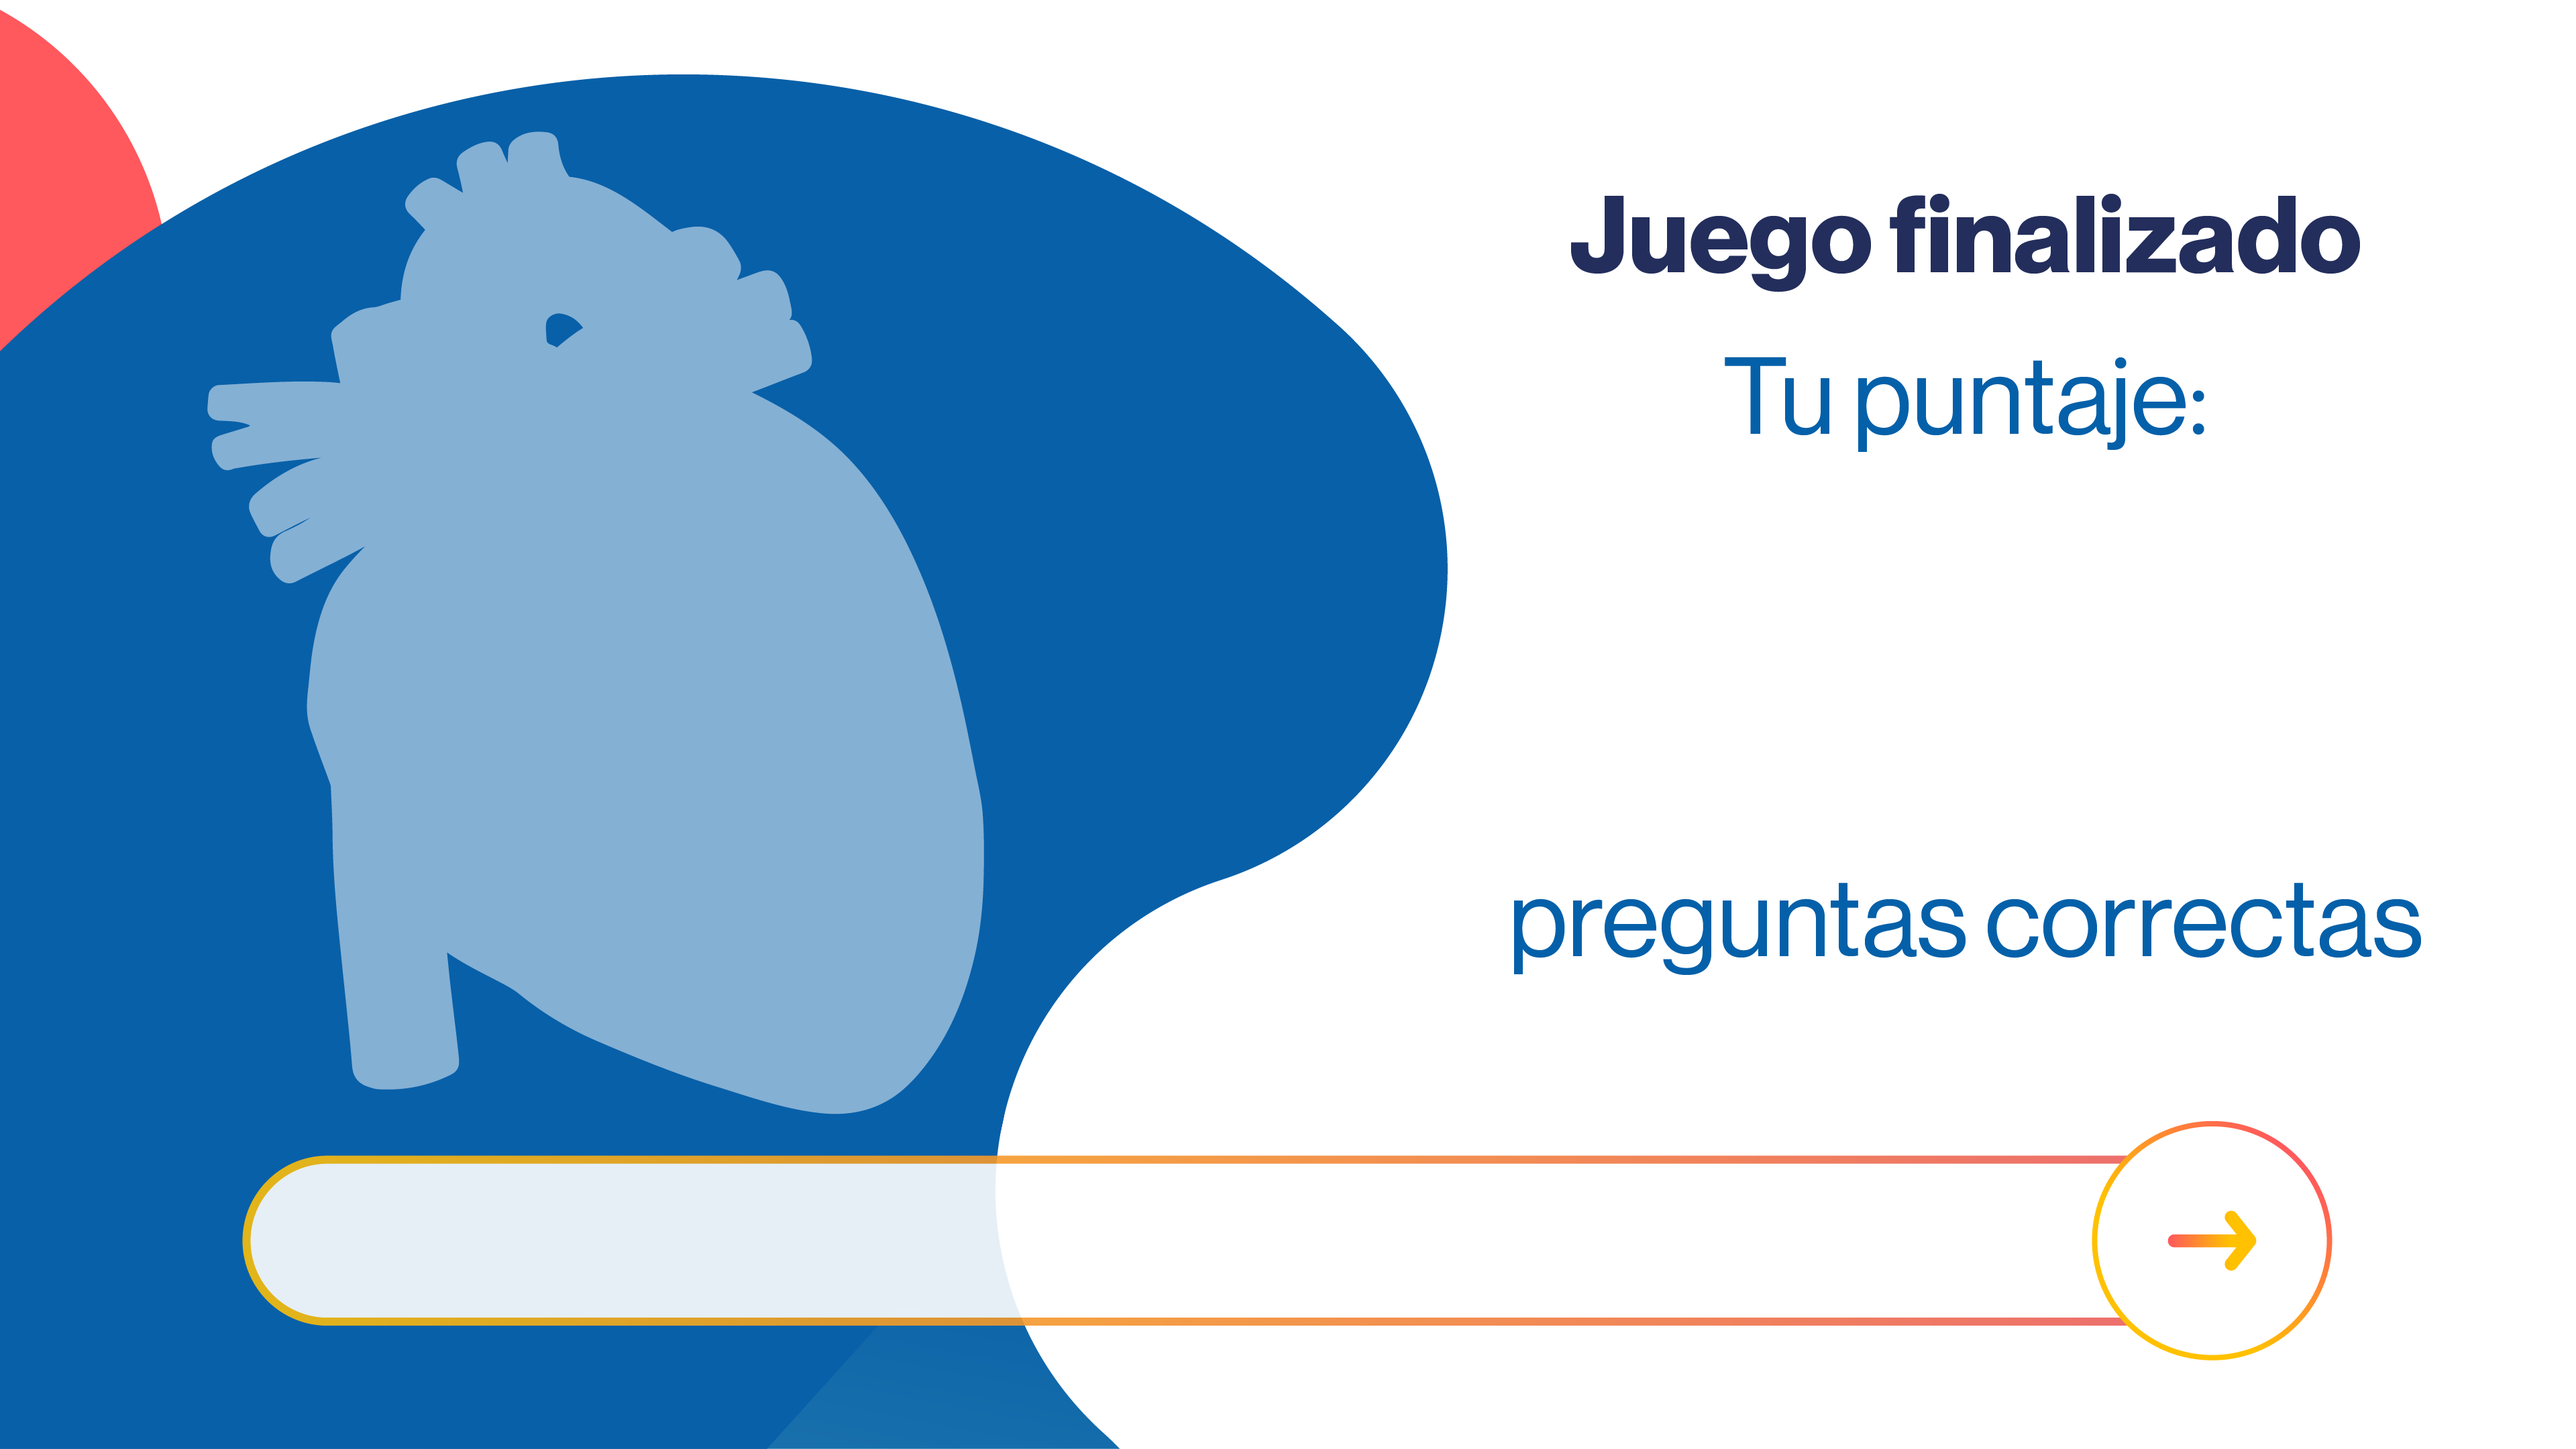
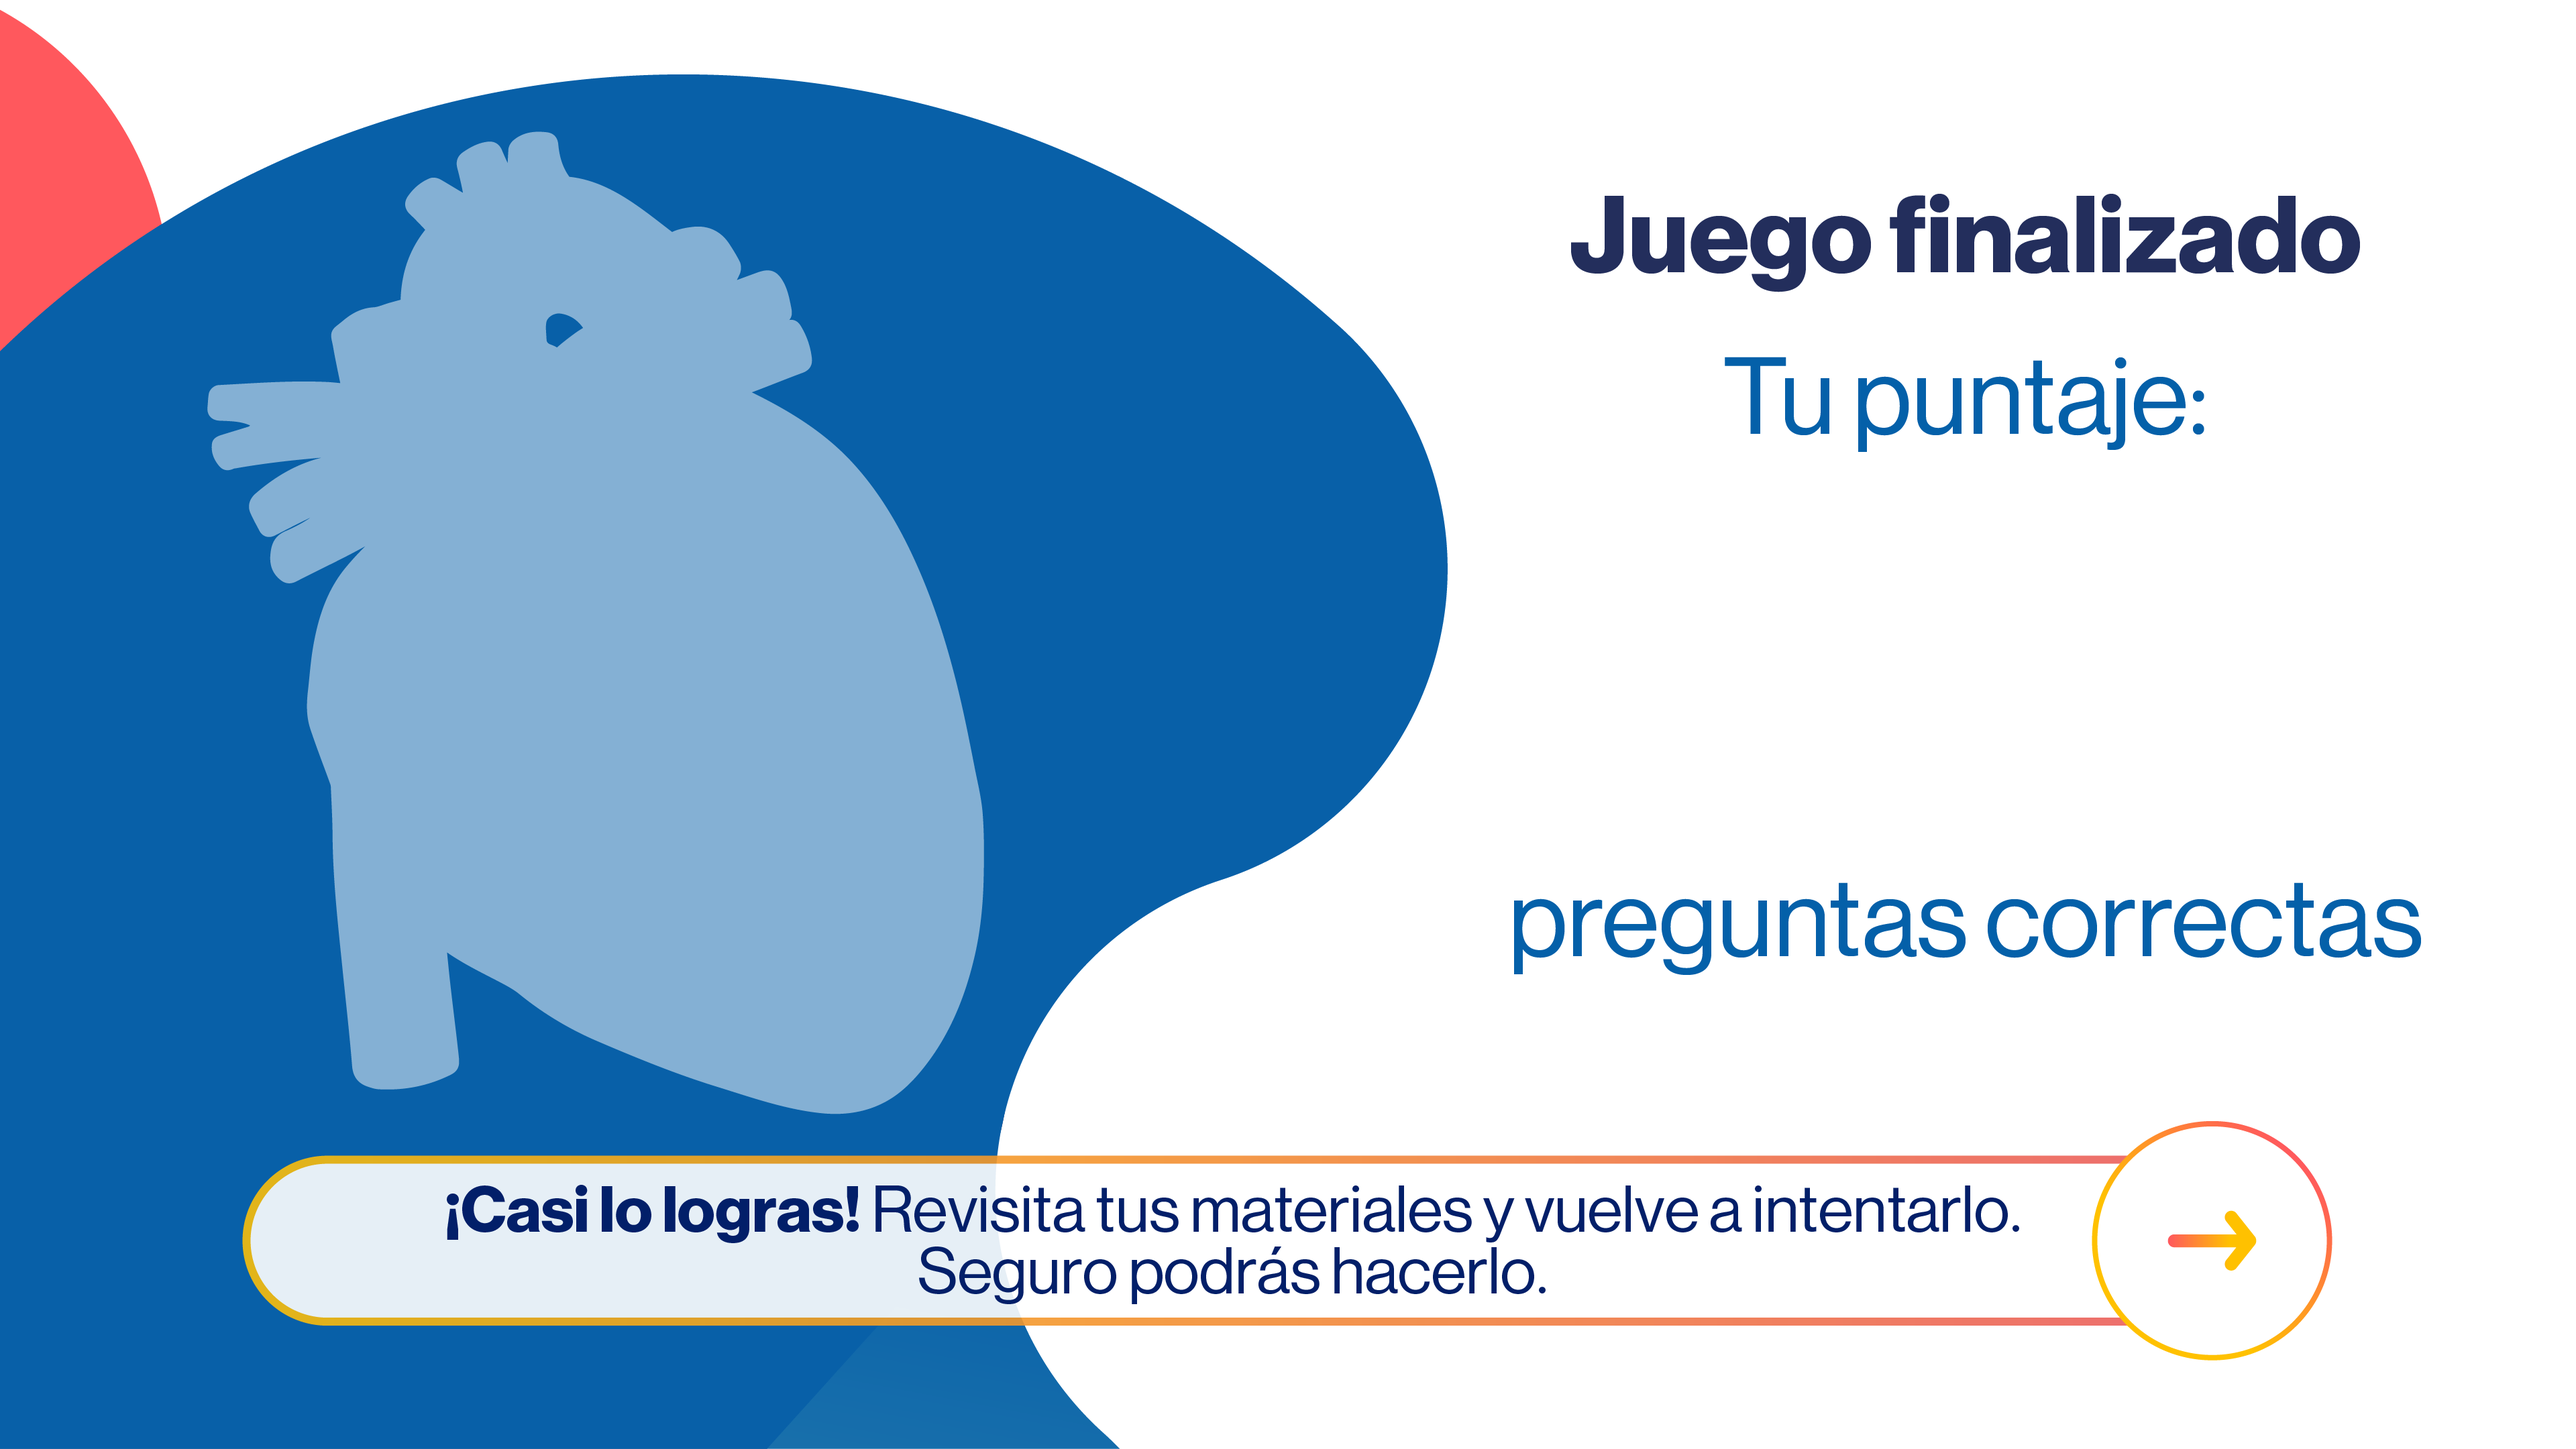
Cambios nuevos.

Changed region(s): [[0.1562, 0.8061, 0.7812, 0.8991]]

diff --git a/js/scripts49.js b/js/scripts49.js
@@ -107,21 +107,16 @@ $(document).ready(function () {
     let message = "";
 
     if (score === 9) {
-      message = `<b>¡Felicitaciones, completaste el 100 % del corazón!</b>`;
       redirectTo("/index57.html");
     } else if (score === 8) {
-      message = `<b>¡Felicitaciones, completaste el 90 % del corazón!</b>`;
       redirectTo("./index57.html");
     } else if (score === 7) {
-      message = `<b>¡Felicitaciones, completaste el 80 % del corazón!</b>`;
-/*       redirectTo("./index57.html"); */
+      /*       redirectTo("./index57.html"); */
     } else {
       if (attempts >= MAX_ATTEMPTS) {
         localStorage.setItem("blockTime", new Date().toISOString());
-        message = `<b>¡Casi lo logras!</b> Revisita tus materiales y vuelve a intentarlo. Seguro podrás hacerlo.`;
+
         redirectTo("./index57.html");
-      } else {
-        message = `<b>¡Casi lo logras!</b> Revisita tus materiales y vuelve a intentarlo. Seguro podrás hacerlo.`;
       }
     }
 
@@ -142,8 +137,5 @@ $(document).ready(function () {
       window.location.href = url;
     }, 2000);
   }
-
-  handleFinishAttempt();
-
   init();
 });

diff --git a/css/styles47.css b/css/styles47.css
@@ -229,32 +229,3 @@ body {
     font-size: 80%;
   }
 }
-
-.calificacion {
-  top: 82.9%;
-  left: 17%;
-  position: absolute;
-  font-size: 257%;
-  color: #021f69;
-  font-family: "volta-modern", sans-serif;
-}
-
-@media (max-width: 1320px) {
-  .calificacion {
-    top: 82.9%;
-    left: 17%;
-    position: absolute;
-    font-size: 227%;
-    color: #021f69;
-  }
-}
-
-@media (max-width: 1165px) {
-  .calificacion {
-    top: 82.9%;
-    left: 18.5%;
-    position: absolute;
-    font-size: 200%;
-    color: #021f69;
-  }
-}
